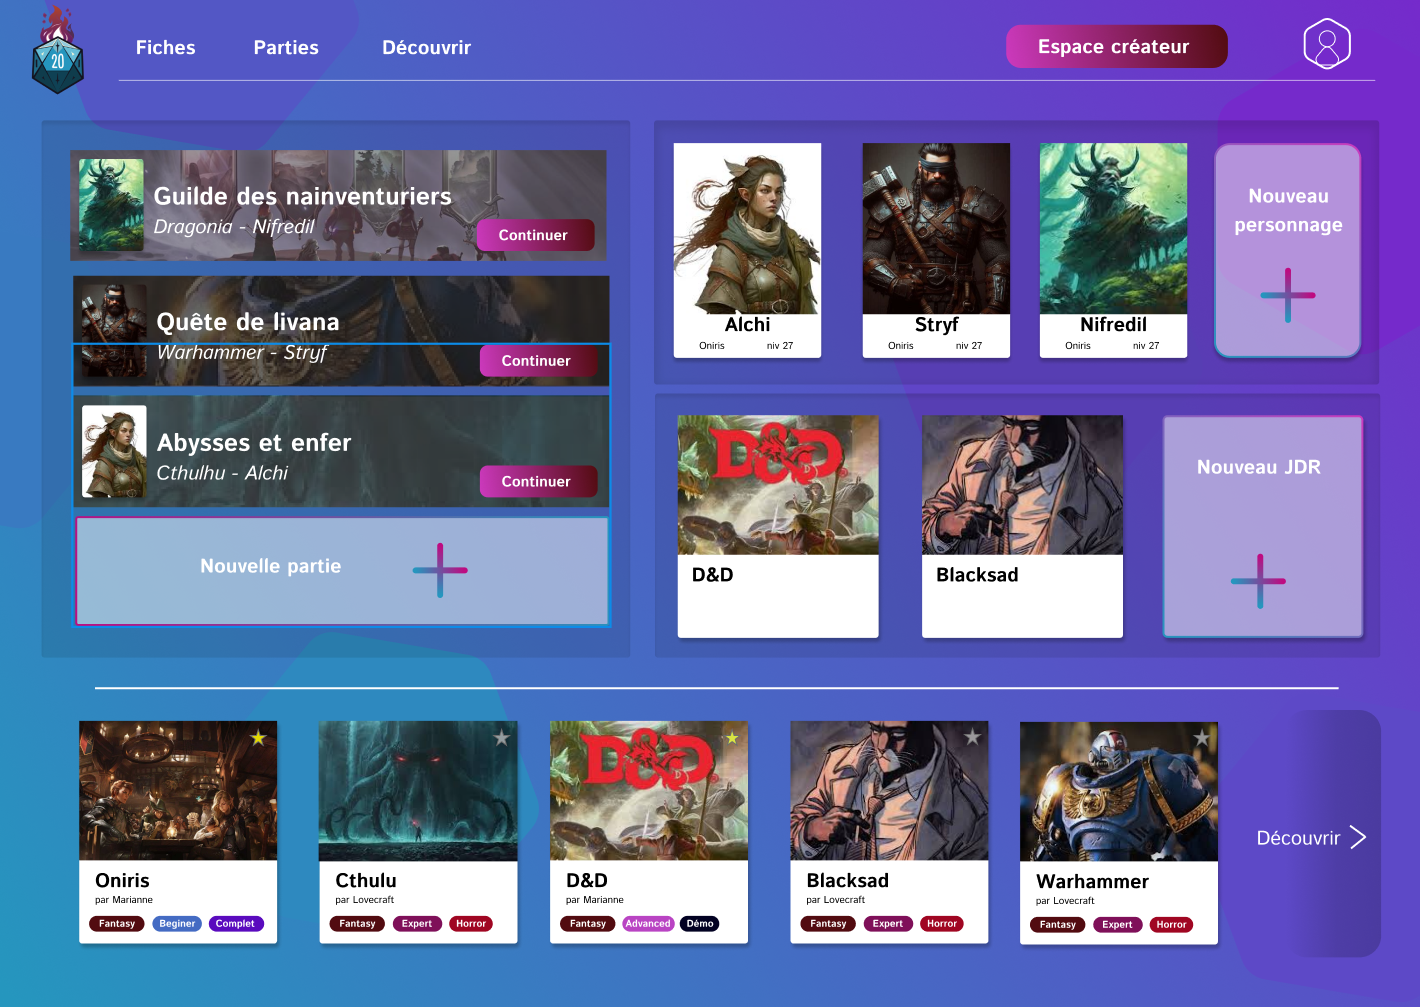
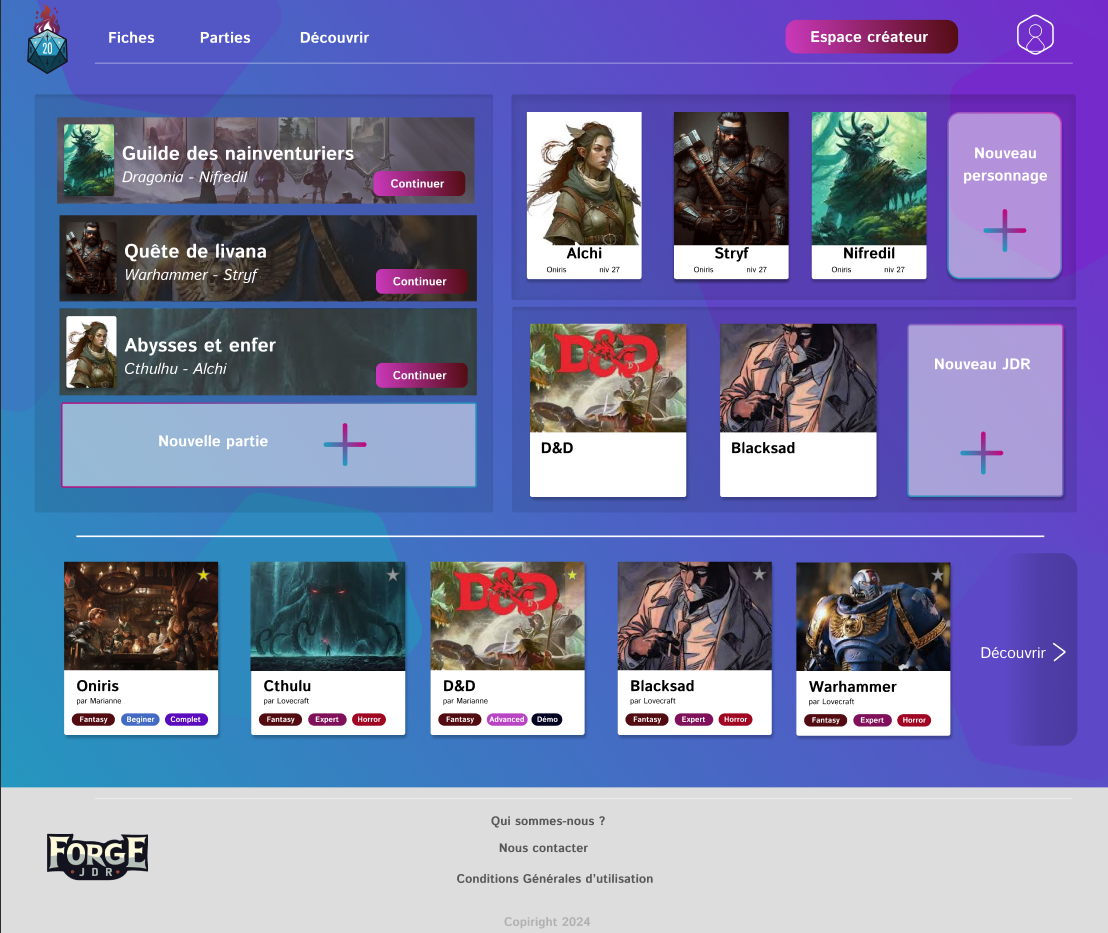
add cara to home page

diff --git a/src/components/templates/home/connectedHome/ConnectedHome.jsx b/src/components/templates/home/connectedHome/ConnectedHome.jsx
@@ -8,6 +8,8 @@ import "./connectedHome.css";
 
 import forgeLogoTxt from "../../../../assets/logo/logo_texte.svg";
 import defaultWikiImage from "../../../../assets/wiki_default.png";
+import defaultCaraImage from "../../../../assets/home/fonc2.jpg";
+import defaultPubliImage from "../../../../assets/home/fonc4.jpg";
 
 import Footer from "../../../UI/organisms/footer/Footer";
 import ConnectedNavbar from "../../connectedNavBar/ConnectedNavbar";
@@ -16,6 +18,7 @@ import NewCaracterForm from "../../NewCaracterForm/NewCaracterForm";
 import CardRpgDiscoverHome from "../../../UI/organisms/CardRpgDiscoverHome/CardRpgDiscoverHome";
 import CardRpgHome from "../../../UI/organisms/CardRpgHome/CardRpgHome";
 import NewRpgForm from "../../../templates/NewRpgForm/NewRpgForm";
+import CardCaraHome from "../../../UI/organisms/CardCaraHome/CardCaraHome";
 
 const ConnectedHome = () => {
   const { t } = useTranslation();
@@ -25,6 +28,7 @@ const ConnectedHome = () => {
   const wikis = useSelector((state) => state.wikis.wikisList);
   const wikiStatus = useSelector((state) => state.wikis.status);
   const ConnectedUser = useSelector((state) => state.auth.user);
+  const caracters = ConnectedUser?.caracters;
 
   const [isDisplayFormNew, setIsDisplayFormNew] = useState(false);
   const [isDisplayFormNewRpg, setIsDisplayFormNewRpg] = useState(false);
@@ -67,7 +71,7 @@ const ConnectedHome = () => {
             <CardRpgDiscoverHome
               className="list-rpg-published home"
               id={el.id}
-              srcImg={el.imageFile ? el.imageFile.path : defaultWikiImage}
+              srcImg={el.imageFile ? el.imageFile.path : defaultPubliImage}
               nameRpg={el.Name}
               owner={el.user?.username}
             />
@@ -116,6 +120,45 @@ const ConnectedHome = () => {
     );
   };
 
+  const RecentCara = () => {
+    if (!ConnectedUser) {
+      return <p>Chargement des personnages...</p>;
+    }
+
+    // Filter the 3 most recent RPGs
+    const recentUserCaracters = ConnectedUser.Caracters.slice(0, 5);
+
+    return (
+      <>
+        {recentUserCaracters.map((cara) => (
+          <div
+            className="my-caracter-card caracter"
+            key={cara.id}
+            onClick={() => {
+              navigate(`/caracters/edit/${cara.id}`);
+            }}
+          >
+            <CardCaraHome
+              className="home user-jdr"
+              id={cara.id}
+              srcImg={cara.imageFile ? cara.imageFile.path : defaultCaraImage}
+              nameCaracter={cara.Name}
+            />
+          </div>
+        ))}
+        {/* Show creation card if user has less than 3 RPGs */}
+        {recentUserCaracters.length < 5 && (
+          <CardCreate
+            width="20%"
+            height="100%"
+            title={t("connectedHome.newRPG")}
+            onClick={displayFormRpg}
+          />
+        )}
+      </>
+    );
+  };
+
   return (
     <>
       <div className="connected-home background">
@@ -134,12 +177,7 @@ const ConnectedHome = () => {
               <div className="my-caracters">
                 <div className="box-content inline-content">
                   {/* User's characters */}
-                  <CardCreate
-                    width="20%"
-                    height="100%"
-                    title={t("connectedHome.newCharactere")}
-                    onClick={displayForm}
-                  />
+                  {RecentCara()}
                 </div>
               </div>
               <div className="my-games">

diff --git a/src/components/UI/organisms/CardCaraHome/CardCaraHome.css b/src/components/UI/organisms/CardCaraHome/CardCaraHome.css
@@ -1,0 +1,39 @@
+.card.my-caracter.personal-space.home {
+    background-color: rgba(255, 255, 255, 70%);
+    box-shadow: 0 10px 20px rgba(0, 0, 0, 0.3);
+    border-radius: 20px;
+    height: 100%;
+}
+
+.card.my-caracter.personal-space.home .img {
+    /* background: linear-gradient(45deg, var(--main-blue-color), var(--main-purple-color)); */
+    border-radius: 20px 20px 0 0;
+    height: 70%;
+}
+
+.my-caracter.personal-space.home .img img {
+    width: 100%;
+    height: 100%;
+    object-fit: cover;
+    border-radius: 20px 20px 0 0;
+}
+
+.info-caracter {
+    height: 30%;
+    padding: 10px;
+}
+
+
+.card.my-caracter.personal-space.home .title-card-caracter {
+    color: black;
+    font-size: 1.2rem;
+}
+
+.card.my-caracter.personal-space.home .owner-card-caracter {
+    color: rgb(72, 72, 72);
+    font-size: 1rem;
+}
+
+.card {
+    cursor: pointer;
+}

diff --git a/src/components/UI/organisms/CardCaraHome/CardCaraHome.jsx b/src/components/UI/organisms/CardCaraHome/CardCaraHome.jsx
@@ -1,0 +1,22 @@
+import React, { useState } from "react";
+
+import "./CardCaraHome.css";
+
+const CardCaraHome = ({ id, srcImg, nameCaracter, ...rest }) => {
+  return (
+    <>
+      <div className="card my-caracter personal-space home">
+        <div className="img">
+          <img src={srcImg} alt="" />
+        </div>
+        <div className="info-caracter">
+          <div className="name-caracter title">
+            <p className="title-card-caracter">{nameCaracter}</p>
+          </div>
+        </div>
+      </div>
+    </>
+  );
+};
+
+export default CardCaraHome;

diff --git a/src/components/pages/WikiEdition/WikiEdition.jsx b/src/components/pages/WikiEdition/WikiEdition.jsx
@@ -851,7 +851,7 @@ const WikiEdition = () => {
           <div className="race-list">
             <h4>Liste des Races</h4>
             <ul>
-              {races.map((race) => (
+              {races?.map((race) => (
                 <li key={race.id}>
                   <h5>{race.Name || "Nom indisponible"}</h5>
                   <button

diff --git a/src/components/templates/home/connectedHome/connectedHome.css b/src/components/templates/home/connectedHome/connectedHome.css
@@ -162,6 +162,14 @@ flex: 1 1 calc(20% - 40px);
     font-size: 1.2em;
 }
 
+.my-caracter-card.caracter{
+    height: 100%;
+    min-width: 150px;
+    width: 20%;
+    margin-right: 10px;
+}
+
+
 .button.view-more {
     background: linear-gradient(to right, rgba(255, 255, 255, 0), rgb(40, 40, 40));
     height: 80%;

diff --git a/src/components/pages/Wiki/Wiki.jsx b/src/components/pages/Wiki/Wiki.jsx
@@ -159,6 +159,7 @@ const Wiki = ({ ...props }) => {
 
         <div className="wiki-title">
           <h1>{wiki.Name}</h1>
+          <div className="owner-rpg">Par {wiki.user.pseudo}</div>
         </div>
 
         <div className="wiki-container">

diff --git a/src/components/UI/organisms/footer/Footer.jsx b/src/components/UI/organisms/footer/Footer.jsx
@@ -72,7 +72,7 @@ const Footer = () => {
           </div>
         </div>
         <div className="copyright-container">
-          <p>Copyright 2024</p>
+          <p>Copyright 2024 - Version BETA</p>
         </div>
       </div>
     </>

diff --git a/src/components/pages/Wiki/wiki.css b/src/components/pages/Wiki/wiki.css
@@ -10,6 +10,11 @@
     position: fixed;
 }
 
+.owner-rpg{
+    margin-top: 10px;
+    font-size: 1.1rem;
+}
+
 .main-contaner-rpg-view{
     background-color: rgba(0, 255, 255, 0);
     margin-top : 90px;
